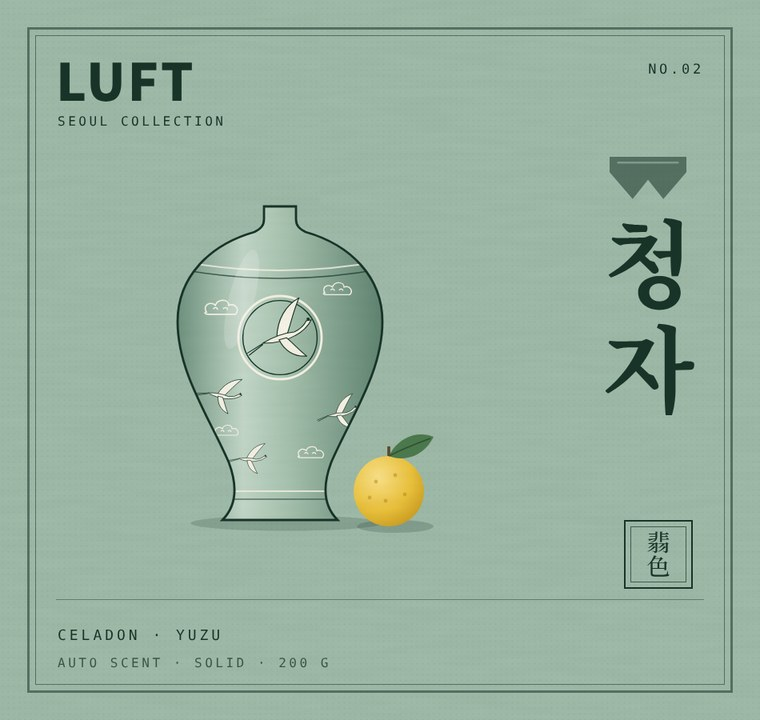
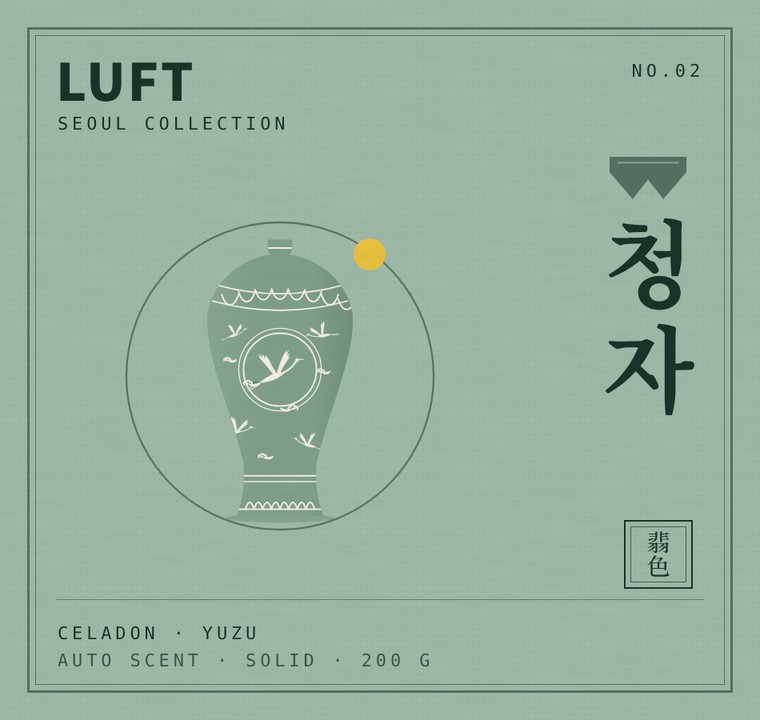
LUFT 방향제 B안 디자인(청자·달항아리 실루엣+상감) + 실제 D 200g 용기 3D 렌더로 이미지 교체
Claude-Session: https://claude.ai/code/session_01CHRf4KTcqoW5MpopzikoD1

diff --git a/sw.js b/sw.js
@@ -1,5 +1,5 @@
 // LUFT 웹앱 오프라인 기본 처리: 화면(index)·카탈로그는 네트워크 우선, 이미지는 캐시 우선. 결제·외부 요청은 건드리지 않음.
-const V='luft-v20261118a';
+const V='luft-v20261119b';
 const CORE=['./','./index.html','./catalog.js','./config.js','./manifest.webmanifest','./img/icons/icon-192.png','./img/scent/jar-pine.webp','./img/scent/jar-yuzu.webp','./img/scent/jar-tea.webp'];
 self.addEventListener('install',e=>{e.waitUntil(caches.open(V).then(c=>c.addAll(CORE)).then(()=>self.skipWaiting()))});
 self.addEventListener('activate',e=>{e.waitUntil(caches.keys().then(ks=>Promise.all(ks.filter(k=>k!==V).map(k=>caches.delete(k)))).then(()=>self.clients.claim()))});
